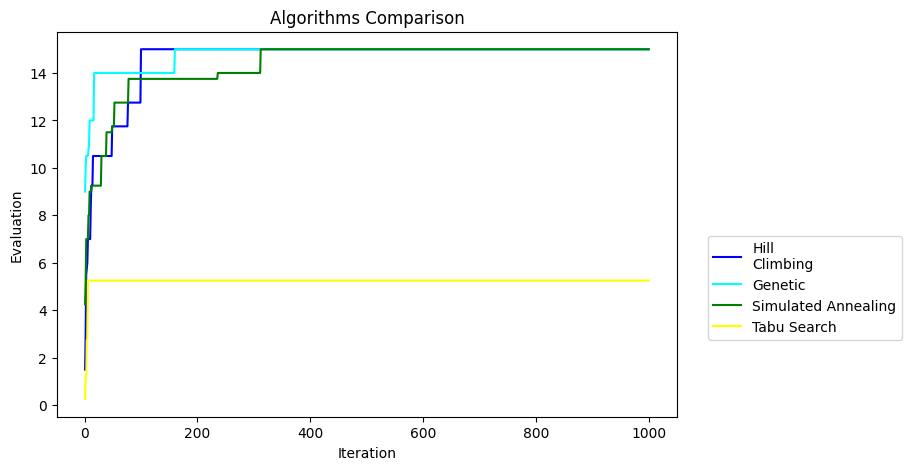
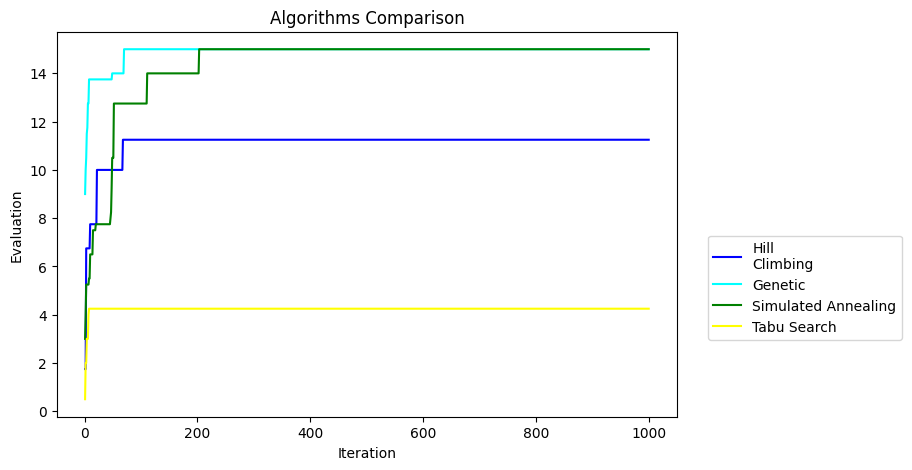
Tenure depending on problem size

diff --git a/graphs.py b/graphs.py
@@ -191,7 +191,11 @@ def plot_all(data_center, iterations, initial_solution, neighbour_modes, problem
     process.start()
     threads.append(process)
 
-    args.func, args.i, args.max_tenure = 'tabu', 3, 200
+    if(problem_size == 'big'):
+        tenure = 200
+    else:
+        tenure = 100
+    args.func, args.i, args.max_tenure = 'tabu', 3, tenure
     process = worker(target=timed_func, args=(args,))
     process.start()
     threads.append(process)
